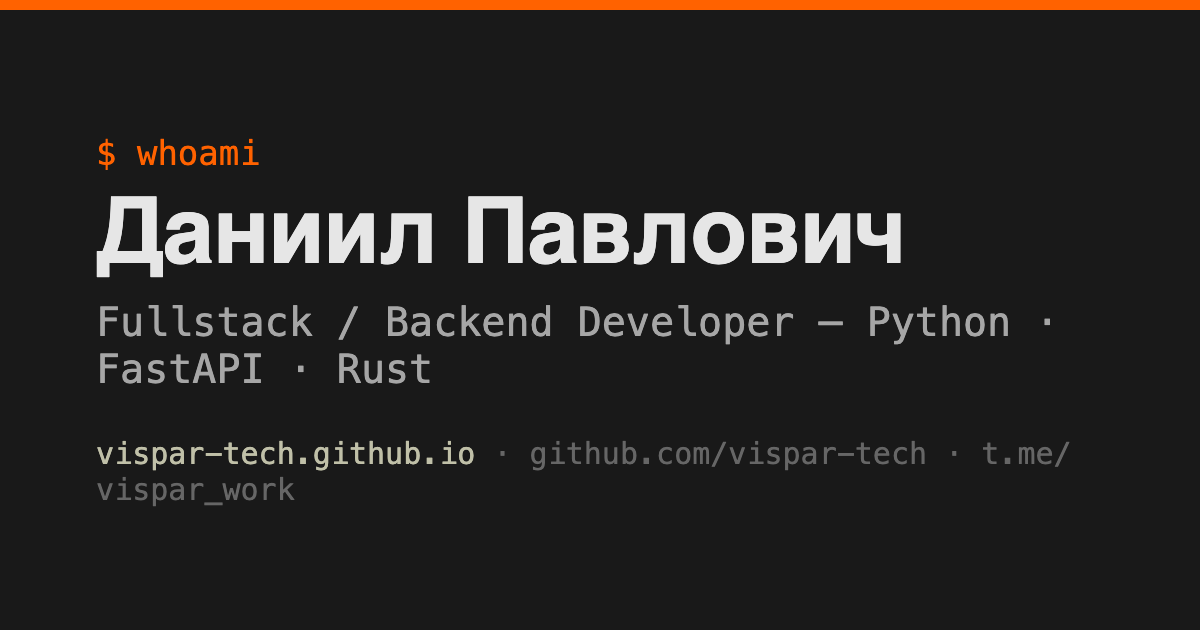
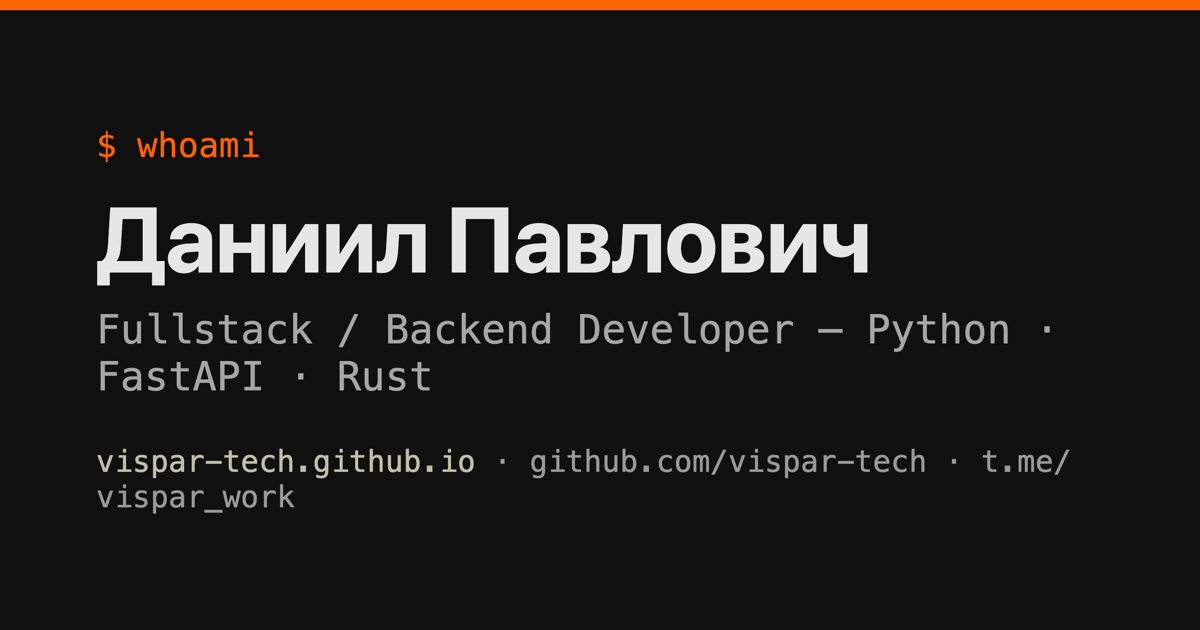
feat(ui): :sparkles: terminal hero session and restrained accent palette

diff --git a/src/content/ru.ts b/src/content/ru.ts
@@ -26,6 +26,26 @@ const ru: SiteContent = {
     photoAlt: "Фото Даниила Павловича",
     ctaPrimary: { label: "Проекты", href: "#projects" },
     ctaSecondary: { label: "Связаться", href: "#contacts" },
+    terminal: {
+      title: "vispar@spb: ~",
+      lines: [
+        {
+          cmd: "ls ~/stack",
+          output: ["python/  rust/  typescript/  fastapi/  postgres/"],
+        },
+        {
+          cmd: "cat experience.log",
+          output: [
+            "justdo — crm + wms для wb и ozon (2021—2023)",
+            "j-crypto — платформа алготрейдинга (2023—2026)",
+          ],
+        },
+        {
+          cmd: "open contacts --fast",
+          output: ["tg @vispar_work · gh vispar-tech · spb utc+3"],
+        },
+      ],
+    },
   },
   about: {
     heading: "Обо мне",
@@ -158,6 +178,8 @@ const ru: SiteContent = {
     githubUrl: "https://github.com/vispar-tech",
     githubLabel: "github.com/vispar-tech",
     email: "layred.dota2@mail.ru",
+    copyLabel: "[копировать]",
+    copiedLabel: "[скопировано ✓]",
     footerNote: "Санкт-Петербург · UTC+3",
   },
 };

diff --git a/src/content/en.ts b/src/content/en.ts
@@ -26,6 +26,26 @@ const en: SiteContent = {
     photoAlt: "Photo of Daniil Pavlovich",
     ctaPrimary: { label: "Projects", href: "#projects" },
     ctaSecondary: { label: "Contact", href: "#contacts" },
+    terminal: {
+      title: "vispar@spb: ~",
+      lines: [
+        {
+          cmd: "ls ~/stack",
+          output: ["python/  rust/  typescript/  fastapi/  postgres/"],
+        },
+        {
+          cmd: "cat experience.log",
+          output: [
+            "justdo — crm + wms for wb & ozon (2021—2023)",
+            "j-crypto — algo trading platform (2023—2026)",
+          ],
+        },
+        {
+          cmd: "open contacts --fast",
+          output: ["tg @vispar_work · gh vispar-tech · spb utc+3"],
+        },
+      ],
+    },
   },
   about: {
     heading: "About me",
@@ -158,6 +178,8 @@ const en: SiteContent = {
     githubUrl: "https://github.com/vispar-tech",
     githubLabel: "github.com/vispar-tech",
     email: "layred.dota2@mail.ru",
+    copyLabel: "[copy]",
+    copiedLabel: "[copied ✓]",
     footerNote: "Saint Petersburg · UTC+3",
   },
 };

diff --git a/src/styles/tokens.scss b/src/styles/tokens.scss
@@ -1,12 +1,13 @@
 // Design tokens — single source of truth for the visual language.
-// Palette reference: ziit.app + neutrals sampled from the GitHub avatar.
+// Palette reference: ziit.app pushed darker toward opencode.ai; neutrals from the GitHub avatar.
 // Component styles must use these variables, never hardcode colors/fonts/sizes.
 
 :root {
   // palette
-  --background: #191919;
-  --element: #2b2b2b;
-  --element-hover: #333333;
+  --background: #101010;
+  --element: #1a1a1a;
+  --element-hover: #242424;
+  --panel: #0c0c0c;
   --border: rgba(255, 255, 255, 0.1);
   --accent: #ff6200;
   --accent-hover: #ff7a24;

diff --git a/src/content/types.ts b/src/content/types.ts
@@ -20,6 +20,11 @@ export interface HeroContent {
   photoAlt: string;
   ctaPrimary: { label: string; href: string };
   ctaSecondary: { label: string; href: string };
+  /** fake terminal session rendered as an interactive window */
+  terminal: {
+    title: string;
+    lines: { cmd: string; output: string[] }[];
+  };
 }
 
 export interface ExperienceItem {
@@ -75,6 +80,9 @@ export interface SiteContent {
     githubUrl: string;
     githubLabel: string;
     email: string;
+    /** copy-to-clipboard affordances for the email card */
+    copyLabel: string;
+    copiedLabel: string;
     footerNote: string;
   };
 }

diff --git a/src/styles/base.scss b/src/styles/base.scss
@@ -51,14 +51,14 @@ a {
   left: 1rem;
   z-index: 100;
   background: var(--accent);
-  color: #191919;
+  color: #101010;
   font-weight: 600;
   padding: 0.5rem 1rem;
   border-radius: var(--radius-sm);
 
   &:focus-visible {
     top: 1rem;
-    color: #191919;
+    color: #101010;
   }
 }
 
